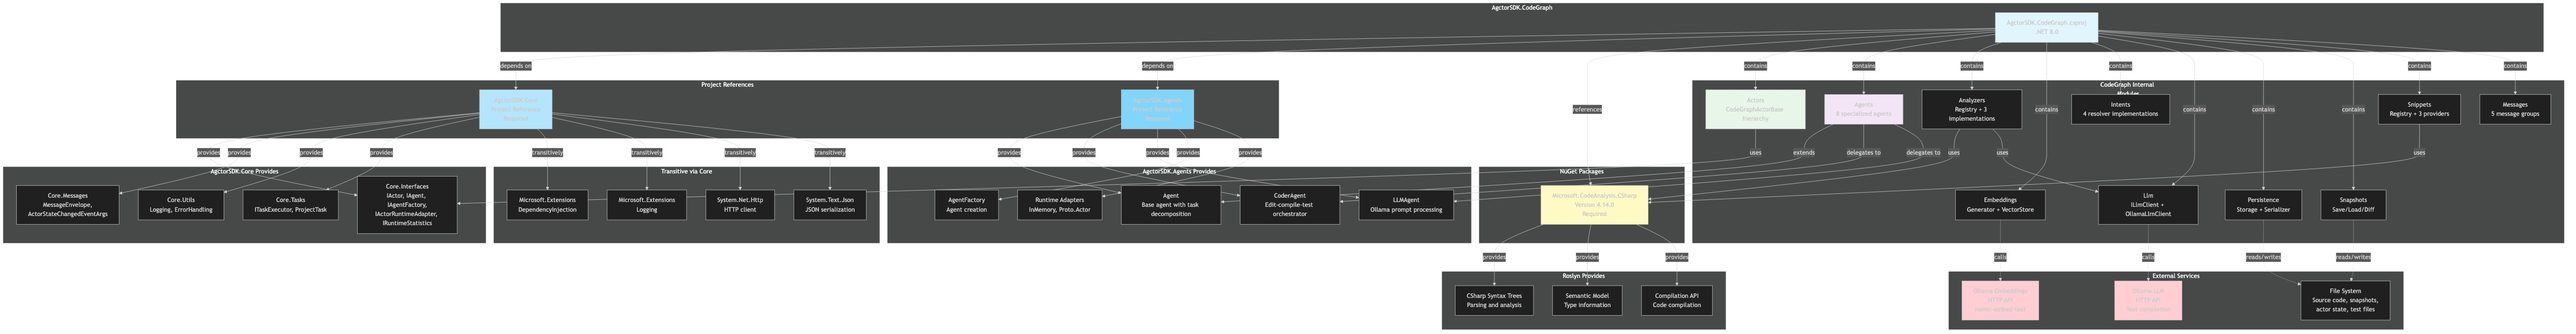
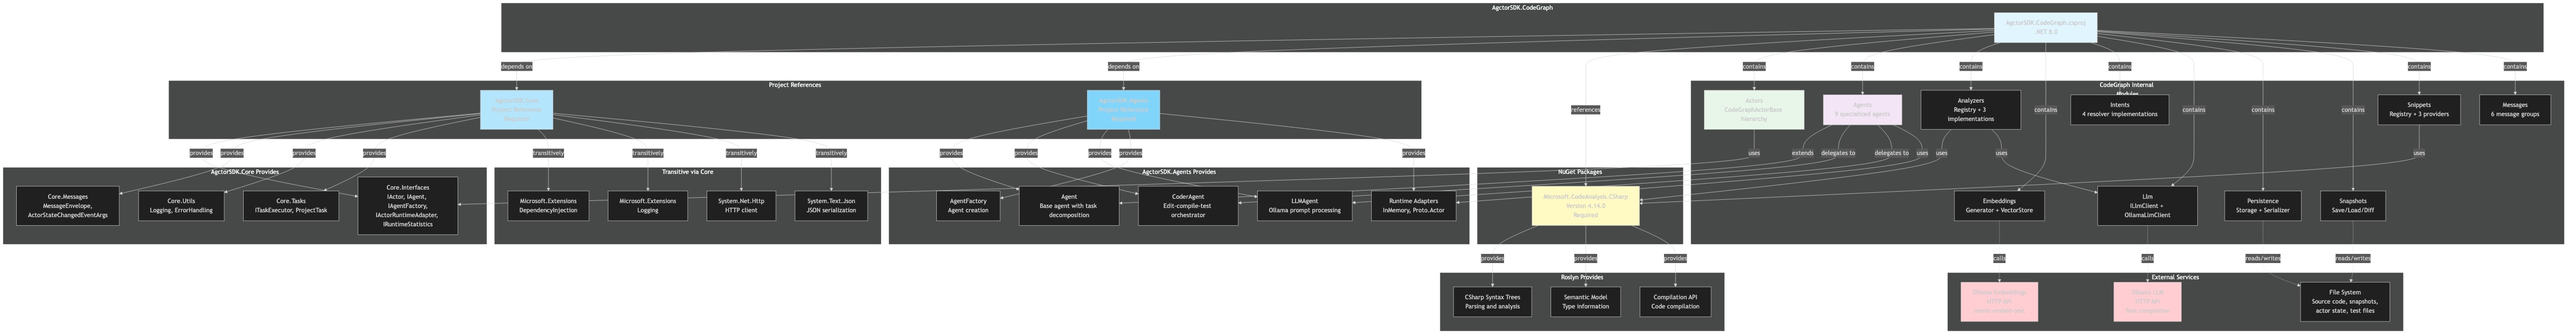
Updates documentation and diagrams for embedding coordination and dashboard features
* Updates architecture, class, and endpoint diagrams to reflect the addition of `EmbeddingCoordinatorAgent` and the embedding lifecycle management flow.
* Adds documentation for `CodeGraphController` and `CurrentScenarioStore` to the host project documentation.
* Regenerates binary image assets for all Mermaid diagrams across the CodeGraph and Host projects.

diff --git a/AgctorSDK.CodeGraph/docs/README.md b/AgctorSDK.CodeGraph/docs/README.md
@@ -1,13 +1,13 @@
 # AgctorSDK.CodeGraph Documentation
 
-This directory contains documentation for the AgctorSDK.CodeGraph project.
+This directory contains concise documentation for `AgctorSDK.CodeGraph`.
 
 ## Documentation Files
 
-- **architecture-diagram**: High-level system architecture showing actors, agents, analyzers, embeddings, and their relationships
-- **class-diagram**: Detailed UML class structure with inheritance and interface implementations
-- **endpoints-diagram**: Message-based API endpoints and data flows between agents and services
-- **dependencies-diagram**: Project dependencies, NuGet packages, and external services
+- **architecture-diagram**: Actor and agent flow, including embedding readiness
+- **class-diagram**: Main types and their relationships
+- **endpoints-diagram**: Message flows between search, query, indexing, and refactoring
+- **dependencies-diagram**: Project, package, and runtime dependencies
 
 Each diagram consists of three files:
 - `.mmd` - Mermaid diagram source code
@@ -22,8 +22,9 @@ Run the shared generation script from the project root:
 ../../scripts/generate-images.sh AgctorSDK.CodeGraph/docs
 ```
 
-## Updating Diagrams
+## Recent Update
 
-1. Edit the `.mmd` file (Mermaid syntax)
-2. Regenerate the `.jpg` image using the script above
-3. Update the `.md` file if documentation changes are needed
+The CodeGraph runtime now includes `EmbeddingCoordinatorAgent`, which:
+- ensures embeddings are ready before semantic search
+- marks embeddings stale after code changes
+- centralizes embedding lifecycle state for all agents

diff --git a/AgctorSDK.Host/docs/architecture-diagram.md b/AgctorSDK.Host/docs/architecture-diagram.md
@@ -6,7 +6,7 @@
 
 ## Overview
 
-AgctorSDK.Host is the ASP.NET Core Web API + MCP server that serves as the HTTP and MCP gateway for the AGCTOR agent framework.
+AgctorSDK.Host is the HTTP and MCP gateway for the AGCTOR runtime.
 
 ## Key Components
 
@@ -15,6 +15,7 @@ AgctorSDK.Host is the ASP.NET Core Web API + MCP server that serves as the HTTP 
 - **GoalsController** (`/api/goals`): Goal CRUD
 - **ToolsController** (`/api/tools`): Tool invocation and discovery
 - **TestController** (`/api/test`): Test scenario setup
+- **CodeGraphController** (`/api/CodeGraph`): CodeGraph status, embeddings, and file preview
 
 ### MCP Protocol
 - **McpListener**: TCP server (port 8080) accepting JSON-delimited messages
@@ -23,6 +24,7 @@ AgctorSDK.Host is the ASP.NET Core Web API + MCP server that serves as the HTTP 
 - **MessageDispatcher**: Routes messages to agents via actor runtime
 - **ToolInvoker**: Direct tool execution without agent wrapper
 - **ScenarioFactory**: Creates predefined test scenarios
+- **CurrentScenarioStore**: Tracks the active scenario for the dashboard
 
 ### Background Services (provided by AgctorSDK.Extensions)
 
@@ -41,4 +43,4 @@ The background hosted services are defined in `AgctorSDK.Extensions/Services/` a
 
 ### Scenarios
 - **CodeGenerationChainScenario**: LLM + CodeExecutor demo
-- **CodeGraphDemoScenario**: Full CodeGraph pipeline with indexing, search, and refactoring
+- **CodeGraphDemoScenario**: CodeGraph pipeline with indexing, embedding coordination, search, and refactoring

diff --git a/AgctorSDK.CodeGraph/docs/architecture-diagram.md b/AgctorSDK.CodeGraph/docs/architecture-diagram.md
@@ -6,7 +6,7 @@
 
 ## Overview
 
-AgctorSDK.CodeGraph models an entire codebase as an actor hierarchy and provides agents that index, search, refactor, review, and test that codebase using the actor model.
+AgctorSDK.CodeGraph models a codebase as an actor hierarchy and layers search, indexing, refactoring, review, and test automation on top of that graph.
 
 ## Key Components
 
@@ -19,6 +19,7 @@ AgctorSDK.CodeGraph models an entire codebase as an actor hierarchy and provides
 
 ### Agents (Intelligence Layer)
 - **IndexerAgent**: Walks the graph, generates embeddings, and stores them
+- **EmbeddingCoordinatorAgent**: Ensures embeddings are ready and marks them stale after edits
 - **SearchAgent**: Semantic (vector) and structural (intent-based) search
 - **QueryAgent**: Orchestrates SearchAgent + LLMAgent for natural-language answers
 - **RefactorAgent**: Orchestrates SearchAgent + LLMAgent + CoderAgent for automated refactoring
@@ -36,6 +37,7 @@ AgctorSDK.CodeGraph models an entire codebase as an actor hierarchy and provides
 ### Embeddings
 - **IEmbeddingGenerator / OllamaEmbeddingGenerator**: Generates vector embeddings via Ollama
 - **IVectorStore / InMemoryVectorStore**: Stores and queries vectors using cosine similarity
+- **EmbeddingLifecycleMessages**: Shared readiness, status, and stale notifications
 
 ### Intent Resolution
 - **HeuristicIntentResolver**: Fast keyword/regex-based intent detection

diff --git a/AgctorSDK.CodeGraph/docs/dependencies-diagram.md b/AgctorSDK.CodeGraph/docs/dependencies-diagram.md
@@ -6,7 +6,7 @@
 
 ## Overview
 
-This diagram shows the dependency relationships for the AgctorSDK.CodeGraph project, including project references, NuGet packages, and runtime services.
+This diagram shows the dependency relationships for `AgctorSDK.CodeGraph`, including project references, packages, and runtime services.
 
 ## Project References
 
@@ -58,12 +58,12 @@ Used for:
 
 ## Internal Modules
 
-The project is organized into 10 internal modules:
+The project is organized into the main modules below:
 
 | Module | Files | Key Responsibility |
 |--------|-------|--------------------|
 | **Actors** | 9 | Code graph hierarchy (Solution → Method) |
-| **Agents** | 8 | Intelligence layer (Index, Search, Refactor, etc.) |
+| **Agents** | 9 | Intelligence layer, including embedding lifecycle coordination |
 | **Analyzers** | 5 | Source code parsing (Roslyn, LLM, TreeSitter) |
 | **Embeddings** | 4 | Vector generation and storage |
 | **Intents** | 7 | Natural-language intent resolution |
@@ -71,7 +71,7 @@ The project is organized into 10 internal modules:
 | **Persistence** | 3 | Actor state storage |
 | **Snapshots** | 2 | Code graph snapshots and diffing |
 | **Snippets** | 6 | Source code snippet extraction |
-| **Messages** | 5 | Message types for agent communication |
+| **Messages** | 6 | Message types for agent communication and embedding lifecycle |
 
 ## Dependency Flow
 

diff --git a/AgctorSDK.CodeGraph/docs/class-diagram.md b/AgctorSDK.CodeGraph/docs/class-diagram.md
@@ -6,7 +6,7 @@
 
 ## Overview
 
-This UML class diagram shows the complete class structure, inheritance, and relationships in the AgctorSDK.CodeGraph project.
+This UML class diagram shows the main types and relationships in `AgctorSDK.CodeGraph`.
 
 ## Inheritance Hierarchy
 
@@ -28,6 +28,7 @@ IActor
 IAgent
   └── Agent (from AgctorSDK.Agents)
        ├── IndexerAgent
+       ├── EmbeddingCoordinatorAgent
        ├── SearchAgent
        ├── QueryAgent
        ├── RefactorAgent
@@ -54,7 +55,8 @@ ISnippetProvider    → CSharpSnippetProvider, PythonSnippetProvider, SnippetRes
 
 - **SolutionActor → ProjectActor → FileActor → ClassActor → MethodActor**: Tree containment mirroring the codebase
 - **IndexerAgent → EmbeddingStoreActor**: Indexes graph nodes as vectors
-- **SearchAgent → EmbeddingStoreActor + IIntentResolver**: Semantic and structural search
+- **EmbeddingCoordinatorAgent → IndexerAgent**: Central embedding readiness and freshness
+- **SearchAgent → EmbeddingCoordinatorAgent + EmbeddingStoreActor + IIntentResolver**: Semantic and structural search
 - **QueryAgent → SearchAgent + LLMAgent**: Combines search results with LLM reasoning
 - **RefactorAgent → SearchAgent + LLMAgent + CoderAgent**: Full refactoring pipeline
 - **FileActor → AnalyzerRegistry**: Parses source files on demand

diff --git a/AgctorSDK.Host/docs/README.md b/AgctorSDK.Host/docs/README.md
@@ -1,15 +1,15 @@
 # AgctorSDK.Host Documentation
 
-ASP.NET Core Web API + MCP server — the main HTTP and MCP gateway for the AGCTOR framework.
+ASP.NET Core Web API + MCP server for the AGCTOR framework.
 
 ## Dashboard (PRD-006)
 
 A read-only configuration dashboard is available at **/Dashboard** (Razor Pages + JavaScript). It shows:
 
 - **Overview** – Runtime, LLM, MCP, paths, background services, registered agent types, tools, scenarios (from `GET /api/Config`).
-- **Agents** – List of agents and registered types; links to agent detail.
+- **Agents** – Live list of active agents and registered types; surfaces backend setup errors.
 - **Agent detail** – Per-agent type-specific view (e.g. LLM URL/model for LLMAgent, tools pipeline for CoderAgent) via `GET /api/agents/{id}/detail`.
-- **CodeGraph** – Actor tree and embedding store summary when the code-graph-demo scenario is active (`GET /api/CodeGraph/current`).
+- **CodeGraph** – Actor tree, embedding lifecycle summary, and file preview when the `code-graph-demo` scenario is active (`GET /api/CodeGraph/current`).
 
 See [endpoints-diagram](./endpoints-diagram.md) for the full API including dashboard endpoints.
 

diff --git a/AgctorSDK.Host/docs/endpoints-diagram.md b/AgctorSDK.Host/docs/endpoints-diagram.md
@@ -49,11 +49,14 @@ HTTP REST API endpoints and MCP TCP protocol exposed by AgctorSDK.Host.
 | POST | `/api/test/setup-scenario` | Setup test scenario |
 | GET | `/api/test/scenarios` | List available scenarios |
 | GET | `/api/test/scenarios/{name}` | Get scenario info |
+| GET | `/api/test/current-scenario` | Get the current dashboard scenario |
 
 ### CodeGraph – Dashboard (PRD-006)
 | Method | Path | Description |
 |--------|------|-------------|
 | GET | `/api/CodeGraph/current` | Get current CodeGraph context (actor tree + embedding summary) when code-graph-demo is active; 404 otherwise |
+| GET | `/api/CodeGraph/embeddings` | Get embedding records for debugging and visualization |
+| GET | `/api/CodeGraph/file-content?path=...` | Preview file content for a file in the active actor tree |
 
 ## Dashboard (Razor Pages)
 - **GET /Dashboard** – Host configuration overview

diff --git a/AgctorSDK.Host/docs/class-diagram.md b/AgctorSDK.Host/docs/class-diagram.md
@@ -13,11 +13,13 @@ Controllers, services, and background workers in the Host project.
 - **GoalsController**: Goal CRUD via IGoalStore
 - **ToolsController**: Tool invocation via ToolInvoker
 - **TestController**: Scenario setup via IScenarioFactory
+- **CodeGraphController**: CodeGraph status, embeddings, and file preview
 
 ## Services
 - **MessageDispatcher**: Routes messages through actor runtime
 - **ToolInvoker**: Direct tool execution
 - **ScenarioFactory**: Creates test scenarios
+- **CurrentScenarioStore**: Persists the selected scenario for the dashboard session
 
 ## Background Services
 - **TaskScoperHostedService**: Goal-to-task decomposition
